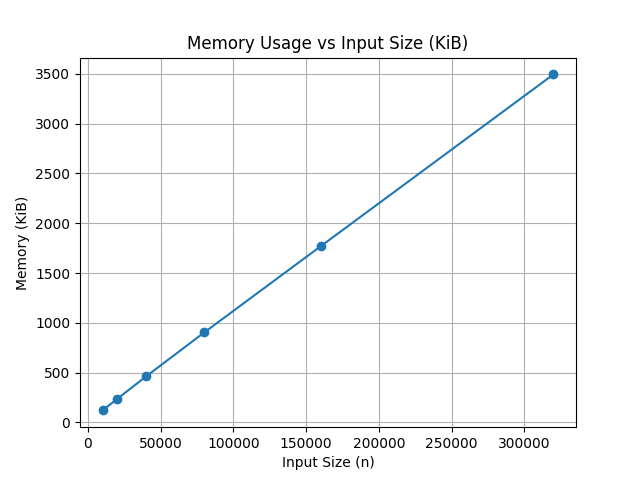
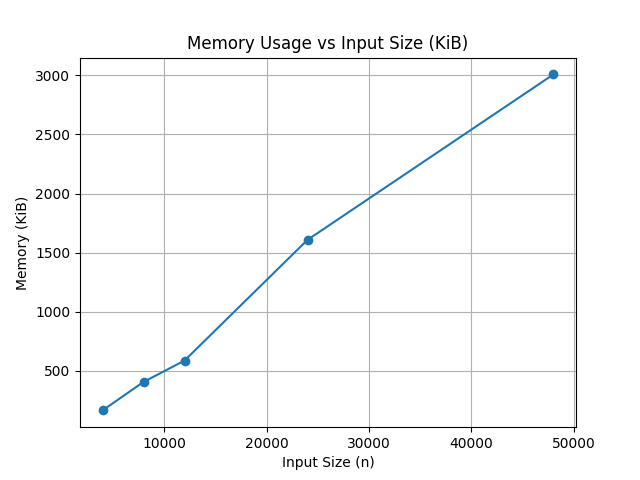
Quick Sort 구현 및 시/공간 복잡도 측정

diff --git a/Complexity-Verification/complexity-check.py b/Complexity-Verification/complexity-check.py
@@ -13,6 +13,7 @@ import tracemalloc  # for memory allocation tracing (docs.python.org)
 import argparse  # for CLI interface (docs.python.org)
 import matplotlib.pyplot as plt  # for plotting results (matplotlib.org)
 
+from quick_sort import quick_sort_gen_rnd_list
 
 def measure(func, input_sizes):
     """
@@ -89,15 +90,15 @@ def main():
     input_sizes = args.sizes
 
     # TODO: Replace or modify this function with your own target algorithm
-    def eratosthenes(n):
-        sieve = [True] * (n + 1)
-        for p in range(2, int(n**0.5) + 1):
-            if sieve[p]:
-                for i in range(p*p, n + 1, p):
-                    sieve[i] = False
-        return [i for i, prime in enumerate(sieve) if prime and i >= 2]
+    # def eratosthenes(n):
+    #     sieve = [True] * (n + 1)
+    #     for p in range(2, int(n**0.5) + 1):
+    #         if sieve[p]:
+    #             for i in range(p*p, n + 1, p):
+    #                 sieve[i] = False
+    #     return [i for i, prime in enumerate(sieve) if prime and i >= 2]
 
-    times, mem_mib, mem_kib = measure(eratosthenes, input_sizes)
+    times, mem_mib, mem_kib = measure(quick_sort_gen_rnd_list, input_sizes)
     plot_results(input_sizes, times, mem_mib, mem_kib)
 
 

diff --git a/Complexity-Verification/quick_sort.py b/Complexity-Verification/quick_sort.py
@@ -1,0 +1,23 @@
+import random
+
+def quick_sort_gen_rnd_list(n):
+    arr = [random.randint(0, 100) for _ in range(n)]
+    quick_sort(arr)
+
+def quick_sort(arr):
+
+    if len(arr) < 2:
+        return arr
+    
+    # pivot을 0번째 인덱스로 설정할 경우
+    pivot = arr[0]
+    left_list = []
+    right_list = []
+
+    for value in arr[1:]:
+        if value < pivot:
+            left_list.append(value)
+        else:
+            right_list.append(value)
+
+    return quick_sort(left_list) + [pivot] + quick_sort(right_list)
